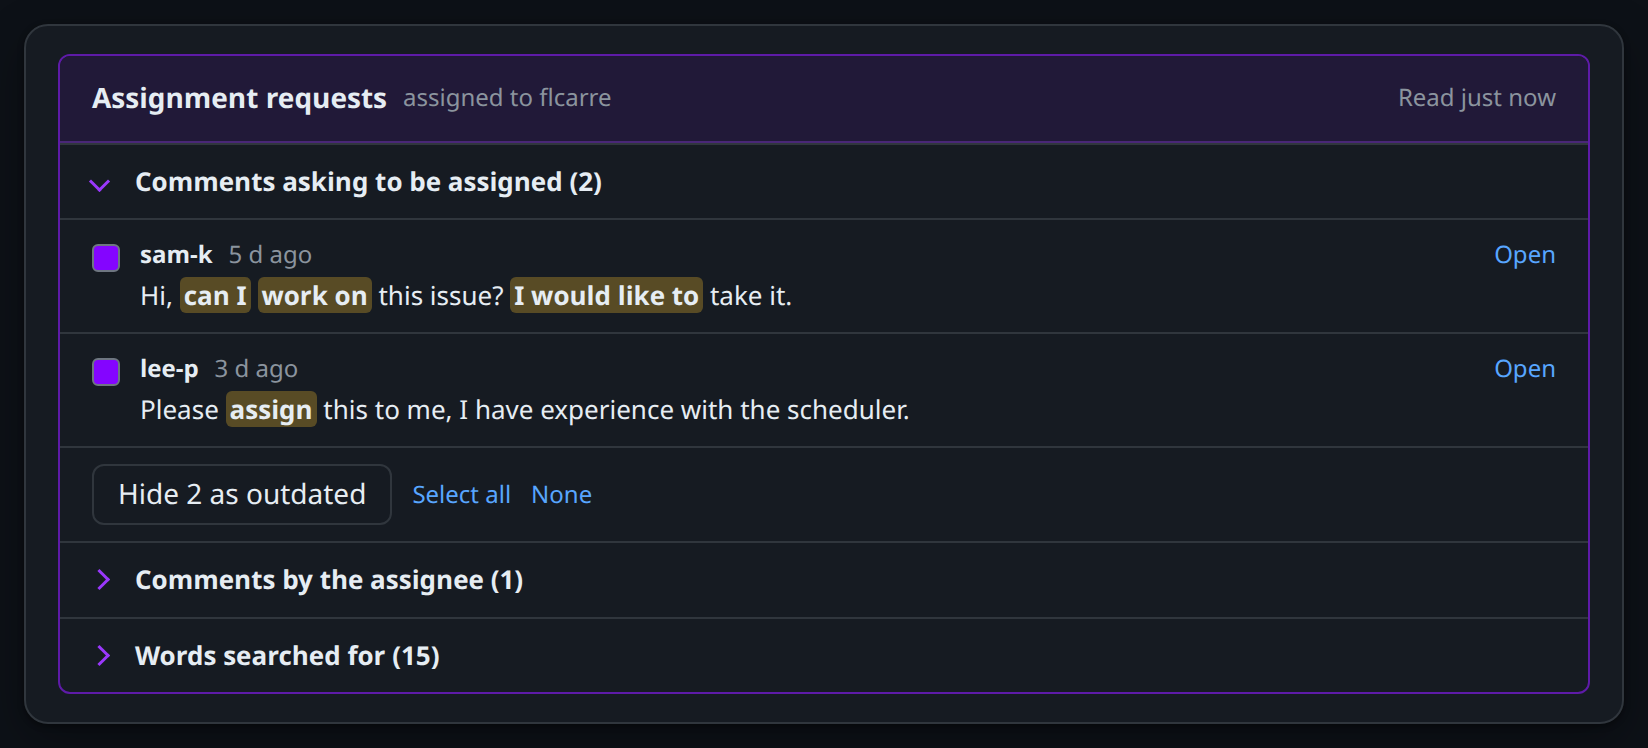
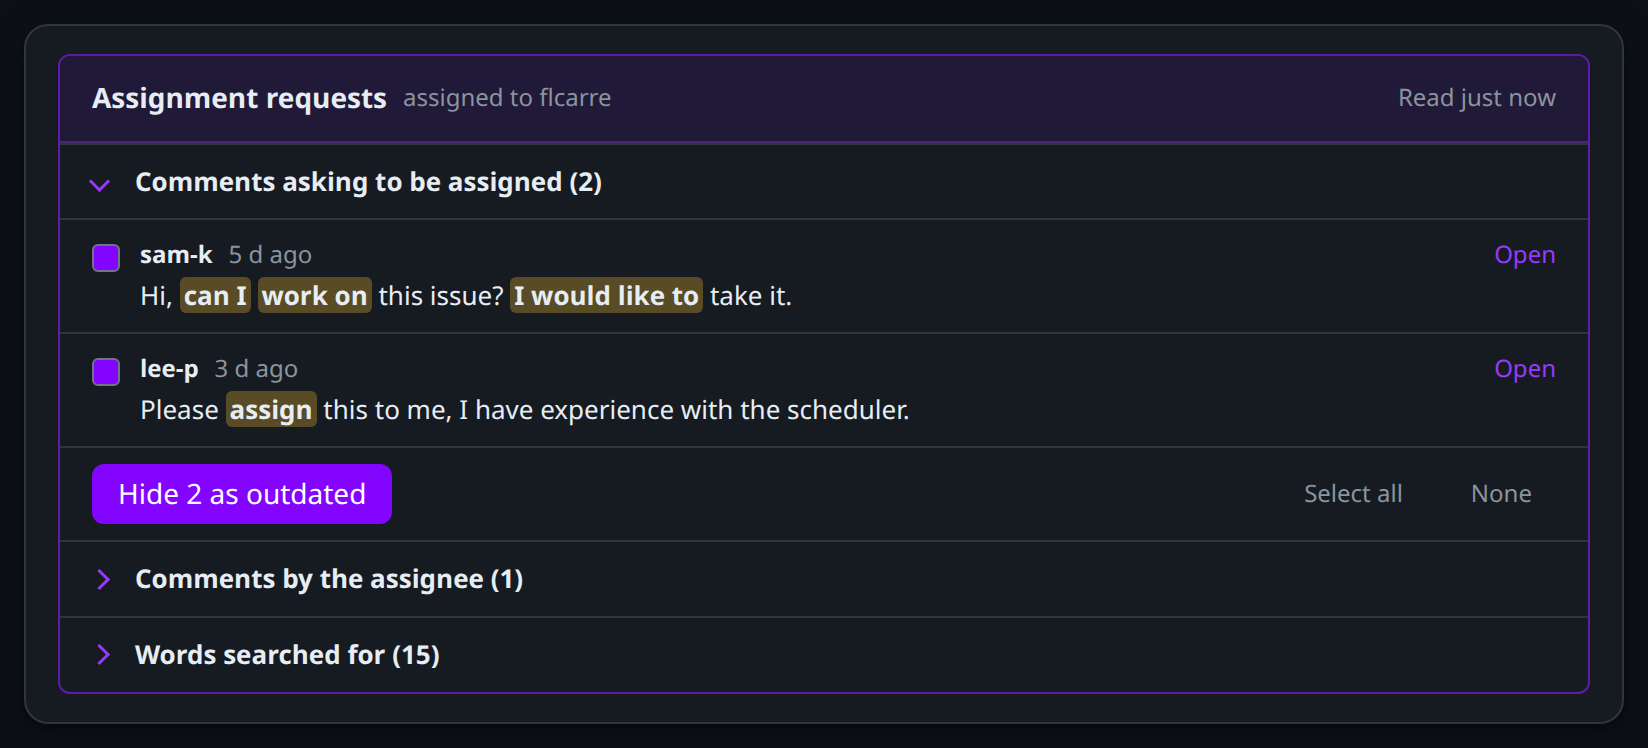
fix(assignments): give the action bar proper buttons and stop offering to hide none
The action bar ran a faint button, two links and a note together on one line, and offered Hide 0 as outdated when nothing was ticked.

- Style the buttons in GitHub's small button style, a filled one in the organization's colour for the action, plain ones for Select all and None, and a red filled one for Confirm
- Put the note about what happened on its own line under the buttons
- Say Tick the comments to hide as outdated instead of offering Hide 0 when nothing is ticked
- Update the site mock-up and example images

diff --git a/content.js b/content.js
@@ -1910,41 +1910,46 @@
 
       const bar = document.createElement("div");
       bar.className = "gsf-assign-bar";
+      const actions = document.createElement("div");
+      actions.className = "gsf-assign-actions";
       const chosen = hideable.filter((c) => state.chosen.has(c.id));
-      if (!hideable.length && !state.hidden.size) {
-        const note = document.createElement("span");
+      const say = (text) => {
+        const note = document.createElement("div");
         note.className = "gsf-assign-note";
-        note.textContent = "You cannot hide comments in this repository.";
-        bar.append(note);
+        note.textContent = text;
+        return note;
+      };
+      if (!hideable.length && !state.hidden.size) {
+        actions.append(say("You cannot hide comments in this repository."));
       } else if (state.confirming) {
-        const ask = document.createElement("span");
-        ask.className = "gsf-assign-note";
-        ask.textContent = `Mark ${chosen.length} comment${chosen.length === 1 ? "" : "s"} as outdated on GitHub?`;
-        bar.append(ask,
+        actions.append(
+          say(`Mark ${chosen.length} comment${chosen.length === 1 ? "" : "s"} as outdated on GitHub?`),
           assignButton("Confirm", () => assignHide(panel, info, entry, state, chosen), "gsf-assign-button gsf-assign-danger"),
-          assignButton("Cancel", () => { state.confirming = false; assignRender(panel, info, entry); }));
+          assignButton("Cancel", () => { state.confirming = false; assignRender(panel, info, entry); }, "gsf-assign-button"));
       } else {
         if (hideable.length) {
-          bar.append(
-            assignButton(`Hide ${chosen.length} as outdated`, () => {
-              if (!chosen.length) { state.note = "Tick at least one comment."; assignRender(panel, info, entry); return; }
+          // With nothing ticked there is nothing to press, so the bar says what to do instead of offering Hide 0.
+          if (chosen.length) {
+            actions.append(assignButton(`Hide ${chosen.length} as outdated`, () => {
               state.confirming = true;
               state.note = "";
               assignRender(panel, info, entry);
-            }),
-            assignButton("Select all", () => { hideable.forEach((c) => state.chosen.add(c.id)); assignRender(panel, info, entry); }, "gsf-assign-link"),
-            assignButton("None", () => { state.chosen.clear(); assignRender(panel, info, entry); }, "gsf-assign-link"));
+            }, "gsf-assign-button gsf-assign-primary"));
+          } else {
+            actions.append(say("Tick the comments to hide as outdated."));
+          }
+          const spacer = document.createElement("span");
+          spacer.className = "gsf-assign-spacer";
+          actions.append(spacer,
+            assignButton("Select all", () => { hideable.forEach((c) => state.chosen.add(c.id)); assignRender(panel, info, entry); }, "gsf-assign-button gsf-assign-ghost"),
+            assignButton("None", () => { state.chosen.clear(); assignRender(panel, info, entry); }, "gsf-assign-button gsf-assign-ghost"));
         }
         if (state.last.length) {
-          bar.append(assignButton("Undo", () => assignUndo(panel, info, entry, state), "gsf-assign-link"));
+          actions.append(assignButton("Undo", () => assignUndo(panel, info, entry, state), "gsf-assign-button"));
         }
       }
-      if (state.note) {
-        const note = document.createElement("span");
-        note.className = "gsf-assign-note";
-        note.textContent = state.note;
-        bar.append(note);
-      }
+      bar.append(actions);
+      if (state.note) bar.append(say(state.note));
       box.append(bar);
       panel.append(box);
     }

diff --git a/docs/index.html b/docs/index.html
@@ -385,13 +385,14 @@
     .mock-assign .ar i { width: 14px; height: 14px; margin-top: 4px; border: 1px solid var(--border-strong); border-radius: 3px; background: var(--b); flex: none; }
     .mock-assign .am { display: flex; gap: 8px; align-items: baseline; font-size: 12px; color: var(--fg-muted); }
     .mock-assign .am b { color: var(--fg); font-weight: 600; }
-    .mock-assign .am a { margin-left: auto; color: var(--accent); }
+    .mock-assign .am a { margin-left: auto; color: var(--ink); }
     .mock-assign .ap { font-size: 13px; }
     .mock-assign mark { padding: 0 2px; border-radius: 3px; background: rgba(212,167,44,.35); color: inherit; font-weight: 700; }
     .mock-assign .bar { display: flex; align-items: center; gap: 10px; padding: 8px 16px; border-top: 1px solid var(--border); font-size: 12px; }
-    .mock-assign .btn { padding: 3px 12px; border: 1px solid var(--border); border-radius: 6px; background: var(--bg-muted); font-weight: 500; }
-    .mock-assign .bar a { color: var(--accent); }
-    .mock-omni { padding: 8px 0; overflow: hidden; }
+    .mock-assign .btn { padding: 4px 12px; border: 1px solid transparent; border-radius: 6px; background: var(--b); color: #fff; font-weight: 500; line-height: 20px; }
+    .mock-assign .ghost { padding: 4px 12px; border-radius: 6px; color: var(--fg-muted); font-weight: 500; line-height: 20px; }
+    .mock-assign .sp { flex: 1; }
+        .mock-omni { padding: 8px 0; overflow: hidden; }
     .mock-omni .bar { display: flex; align-items: center; gap: 10px; margin: 0 8px 6px; padding: 7px 12px; border-radius: 9999px; background: var(--bg-muted); font-size: 14px; }
     .mock-omni .kw { padding: 2px 10px; border-radius: 9999px; background: var(--info-bg); color: var(--accent); font-size: 12.5px; font-weight: 600; white-space: nowrap; }
     .mock-omni .caret { width: 1px; height: 17px; margin-left: -8px; background: var(--fg); }
@@ -639,7 +640,7 @@
           <div class="wk"><div class="acc">Comments asking to be assigned (2)</div><div class="wl">
             <div class="ar"><i></i><div><div class="am"><b>sam-k</b><span>5 d ago</span><a>Open</a></div><div class="ap">Hi, <mark>can I</mark> <mark>work on</mark> this issue? <mark>I would like to</mark> take it.</div></div></div>
             <div class="ar"><i></i><div><div class="am"><b>lee-p</b><span>3 d ago</span><a>Open</a></div><div class="ap">Please <mark>assign</mark> this to me, I have experience with the scheduler.</div></div></div>
-          </div><div class="bar"><span class="btn">Hide 2 as outdated</span><a>Select all</a><a>None</a></div></div>
+          </div><div class="bar"><span class="btn">Hide 2 as outdated</span><span class="sp"></span><span class="ghost">Select all</span><span class="ghost">None</span></div></div>
           <div class="wk"><div class="acc shut">Comments by the assignee (1)</div></div>
           <div class="wk"><div class="acc shut">Words searched for (15)</div></div>
         </div>

diff --git a/content.css b/content.css
@@ -1308,14 +1308,23 @@ div:has(> .gsf-progress) {
 }
 .gsf-assign-bar {
   display: flex;
-  align-items: center;
-  flex-wrap: wrap;
-  gap: 10px;
-  padding: 8px 16px;
+  flex-direction: column;
+  gap: 6px;
+  padding: 10px 16px;
   border-top: 1px solid var(--borderColor-default);
 }
+.gsf-assign-actions {
+  display: flex;
+  align-items: center;
+  flex-wrap: wrap;
+  gap: 8px;
+}
+.gsf-assign-spacer {
+  flex: 1;
+}
+/* Buttons in GitHub's own small button style: a neutral one, a filled one for the action, a plain one for the rest. */
 .gsf-assign-button {
-  padding: 3px 12px;
+  padding: 4px 12px;
   border: 1px solid var(--borderColor-default);
   border-radius: 6px;
   background: var(--bgColor-muted);
@@ -1323,15 +1332,41 @@ div:has(> .gsf-progress) {
   font: inherit;
   font-size: 12px;
   font-weight: 500;
+  line-height: 20px;
   cursor: pointer;
+  transition: background 0.1s, border-color 0.1s;
 }
 .gsf-assign-button:hover {
   border-color: var(--fgColor-muted);
+  background: var(--bgColor-neutral-muted);
+}
+.gsf-assign-primary {
+  border-color: transparent;
+  background: var(--gsf-brand, var(--bgColor-accent-emphasis, #0969da));
+  color: #fff;
+}
+.gsf-assign-primary:hover {
+  border-color: transparent;
+  background: color-mix(in srgb, var(--gsf-brand, var(--bgColor-accent-emphasis, #0969da)) 88%, #000);
+}
+.gsf-assign-ghost {
+  border-color: transparent;
+  background: none;
+  color: var(--fgColor-muted);
+}
+.gsf-assign-ghost:hover {
+  border-color: transparent;
+  background: var(--bgColor-neutral-muted);
+  color: var(--fgColor-default);
 }
 .gsf-assign-danger {
-  border-color: var(--borderColor-danger-emphasis, var(--fgColor-danger));
-  background: var(--bgColor-danger-muted);
-  color: var(--fgColor-danger);
+  border-color: transparent;
+  background: var(--bgColor-danger-emphasis, #cf222e);
+  color: #fff;
+}
+.gsf-assign-danger:hover {
+  border-color: transparent;
+  background: color-mix(in srgb, var(--bgColor-danger-emphasis, #cf222e) 88%, #000);
 }
 .gsf-assign-link {
   padding: 0;
@@ -1350,7 +1385,8 @@ div:has(> .gsf-progress) {
   color: var(--fgColor-muted);
 }
 .gsf-assign[data-brand] .gsf-assign-meta a,
-.gsf-assign[data-brand] .gsf-assign-link {
+.gsf-assign[data-brand] .gsf-assign-link,
+.gsf-assign[data-brand] .gsf-assign-ghost:hover {
   color: var(--gsf-ink) !important;
 }
 .gsf-assign[data-brand] .gsf-profile-title {
